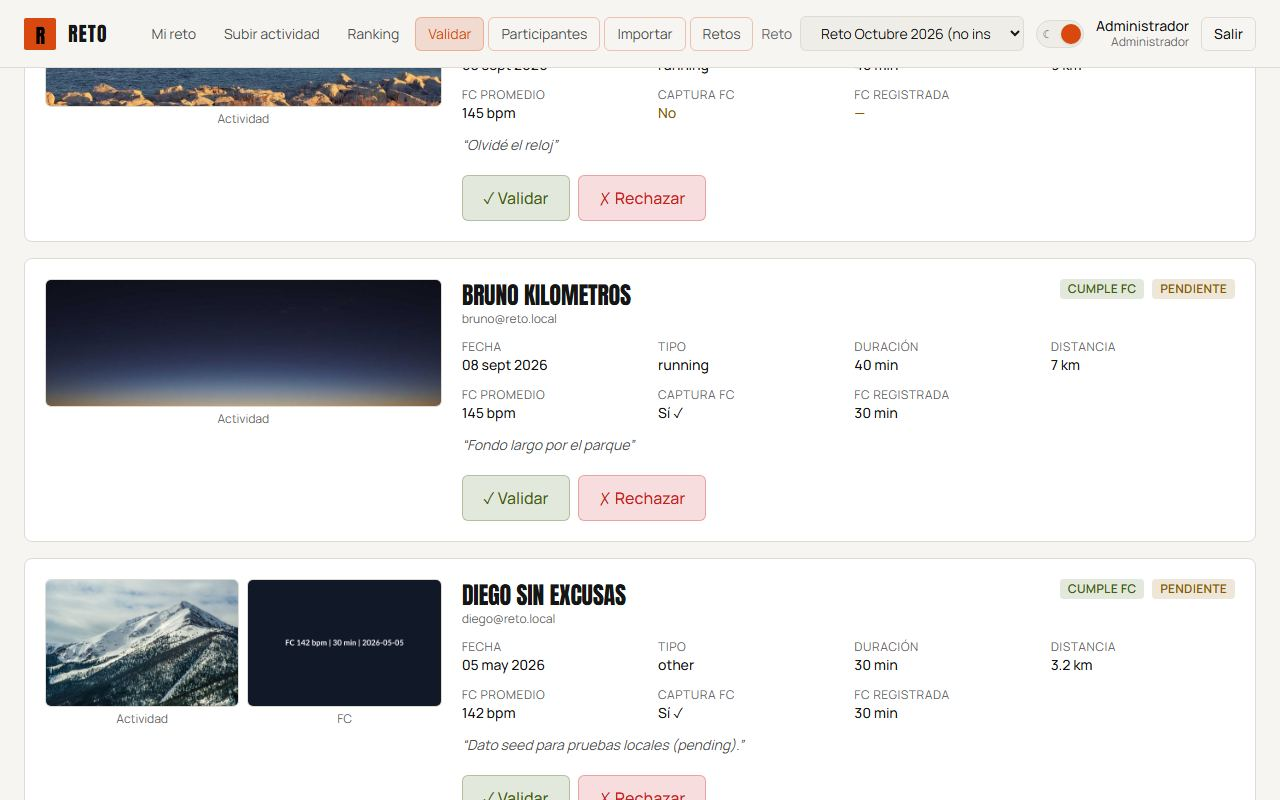
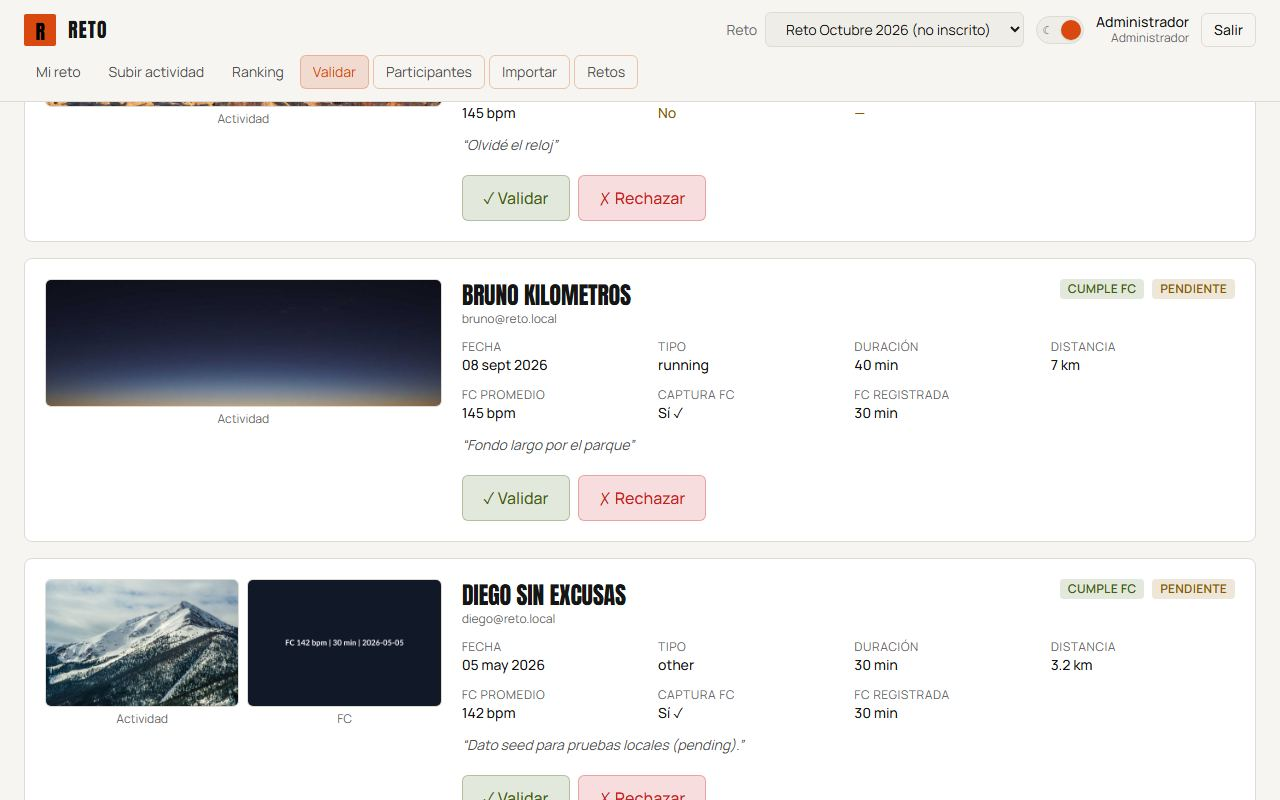
docs: refresh captures for the new header and record the run
The admin screens show the two-row header with the full challenge name,
the guide uses the new header capture sizes and lists the fix, and the
counts match the latest validated run.

Changed region(s): [[0.0, 0.0, 0.7812, 0.125], [0.8125, 0.0, 0.9688, 0.0625], [0.6875, 0.0938, 0.75, 0.125]]

diff --git a/docs/guia-plataforma.html b/docs/guia-plataforma.html
@@ -265,13 +265,14 @@
     <p class="lede">Todo lo que hace la plataforma, en el orden en que ocurre durante un mes de reto: poner el sistema en marcha, configurar el reto, inscribir y cobrar, registrar y validar actividades, cerrar con ranking y premio, cargar historial y operar. Marca cada paso cuando lo completes; tu avance queda guardado en este navegador.</p>
     <div class="facts">
       <span><b>Para</b> administradores, participantes y quien opera el servidor</span>
-      <span class="verified">Verificado el 2 oct 2026: batería 11 de 11 · 99 de 99 casos aprobados con 329 pruebas</span>
+      <span class="verified">Verificado el 2 oct 2026: batería 11 de 11 · 100 de 100 casos aprobados con 333 pruebas</span>
       <span><b>Capturas</b> de la web real en modo claro, generadas por Playwright con datos de demostración</span>
       <span><b>Moneda de ejemplo</b> BOB · <b>zona</b> America/La_Paz</span>
     </div>
     <details class="news">
       <summary>Qué cambió en esta actualización</summary>
       <ul>
+        <li>El encabezado entra completo también en el celular: el nombre del reto ya no se corta y las secciones van en una fila propia que se desplaza.</li>
         <li>Los retos cerrados se consultan en el Ranking: ganadores y premio final, con dirección para compartir (paso 6.5).</li>
         <li>Nuevo modo claro con interruptor en el encabezado; por defecto sigue el tema de tu dispositivo (paso 1.4).</li>
         <li>Capturas de la web real en modo claro, dentro de un marco de ventana para no confundirlas con la guía; pulsa una para ampliarla.</li>
@@ -643,7 +644,7 @@
         {
           id: '8.2', role: 'tecnico', title: 'Correr la batería completa',
           why: 'Antes de cada release, un solo comando valida toda la plataforma.',
-          cmd: 'node scripts/run-tests.mjs              # 11 pasos\nnode scripts/run-tests.mjs --quick      # sin base de datos\nnode scripts/validate-test-cases.mjs    # valida los 99 casos del catálogo',
+          cmd: 'node scripts/run-tests.mjs              # 11 pasos\nnode scripts/run-tests.mjs --quick      # sin base de datos\nnode scripts/validate-test-cases.mjs    # valida los 100 casos del catálogo',
           expect: 'Lint, unitarias, build, migraciones, e2e de API, tipos, unitarias y build de la web, sesiones paralelas y recorridos de UI en verde. El validador cruza cada caso de <code>docs/qa/</code> con sus pruebas y regenera el catálogo y el reporte. Solo necesita Postgres.',
           refs: ['testing.md', 'qa/validation-report.md']
         },
@@ -651,7 +652,7 @@
           id: '8.3', role: 'tecnico', title: 'Ver los recorridos de UI en el navegador',
           why: 'Playwright reproduce los recorridos de este manual sobre la web real.',
           cmd: 'cd e2e && npm install && npx playwright install chromium\nnpm test          # sin ventana\nnpm run test:ui   # paso a paso\nnpx playwright test -c playwright.guide.config.ts   # regenera las capturas de este manual',
-          expect: '34 recorridos en verde (más la preparación de sesiones). La suite de capturas deja las imágenes en <code>docs/guia-capturas/</code>.',
+          expect: '38 recorridos en verde (más la preparación de sesiones). La suite de capturas deja las imágenes en <code>docs/guia-capturas/</code>.',
           refs: ['e2e-playwright.md']
         },
         {
@@ -666,7 +667,7 @@
           id: '8.5', role: 'tecnico', title: 'Validar el catálogo de casos de prueba',
           why: 'Cada caso del catálogo está enlazado a las pruebas que lo demuestran; el validador dice cuáles pasan hoy.',
           cmd: 'cd backend && npx prisma migrate reset --force   # datos limpios del seed\ncd .. && node scripts/validate-test-cases.mjs\nnode scripts/validate-test-cases.mjs --only=ui        # una sola suite\nnode scripts/validate-test-cases.mjs --reuse          # regenera los documentos sin volver a correr',
-          expect: 'Los 99 casos aprobados y ninguna prueba sin caso. Se regeneran <code>docs/qa/test-cases.md</code>, <code>test-cases.csv</code> y <code>validation-report.md</code>; el comando falla si un caso falla o si una prueba cambió de nombre.',
+          expect: 'Los 100 casos aprobados y ninguna prueba sin caso. Se regeneran <code>docs/qa/test-cases.md</code>, <code>test-cases.csv</code> y <code>validation-report.md</code>; el comando falla si un caso falla o si una prueba cambió de nombre.',
           note: 'Uno de los casos (TC-SEC-04, el seed en producción) es una verificación manual registrada; los demás se validan con pruebas automatizadas.',
           refs: ['qa/validation-report.md', 'qa/catalog.mjs']
         },
@@ -733,7 +734,7 @@
   const SHOT_DIR = 'guia-capturas/';
   // La versión publicada embebe las imágenes; en el repositorio se leen de la carpeta.
   // Ancho y alto de cada captura: reservan su espacio y evitan saltos al cargar.
-  const SHOT_SIZE = { '06-reto-formulario.jpg': [1232, 834], '07-selector-reto.jpg': [1280, 68], '23-tema-interruptor.jpg': [1280, 68], '14-validar-override.jpg': [1232, 366], '15-rechazar.jpg': [1232, 338], '18-premiacion.jpg': [1232, 504], '19-importar-preview.jpg': [1232, 289], '20-importar-resultado.jpg': [1232, 246], '21-importar-sheets.jpg': [1232, 263] };
+  const SHOT_SIZE = { '06-reto-formulario.jpg': [1232, 834], '07-selector-reto.jpg': [1280, 102], '23-tema-interruptor.jpg': [1280, 102], '14-validar-override.jpg': [1232, 366], '15-rechazar.jpg': [1232, 338], '18-premiacion.jpg': [1232, 504], '19-importar-preview.jpg': [1232, 289], '20-importar-resultado.jpg': [1232, 246], '21-importar-sheets.jpg': [1232, 263] };
   const shotSize = (file) => SHOT_SIZE[file] || [1280, 800];
   const shotSrc = (file) => (window.SHOT_DATA && window.SHOT_DATA[file]) || SHOT_DIR + file;
   const SHOTS = {

diff --git a/docs/testing.md b/docs/testing.md
@@ -111,8 +111,8 @@ Las ramas `main` y `develop` están protegidas: sin CI en verde no se puede merg
 | Reglas de negocio del backend | Cubiertas por unitarias y e2e |
 | Contratos HTTP y RBAC | Cubiertos por e2e |
 | Recorrido funcional completo | Cubierto por `parallel-session-test.mjs` |
-| Interfaz web | Cubierta por Playwright (`e2e/`): 34 recorridos (incluidos el modo claro/oscuro y los retos cerrados) y 15 pruebas de la suite de capturas, sobre navegador real |
-| Trazabilidad | Los 99 casos de `docs/qa/` están enlazados a 329 pruebas; ninguna prueba queda sin caso |
+| Interfaz web | Cubierta por Playwright (`e2e/`): 38 recorridos (incluidos el modo claro/oscuro, los retos cerrados y el encabezado en escritorio y móvil) y 15 pruebas de la suite de capturas, sobre navegador real |
+| Trazabilidad | Los 100 casos de `docs/qa/` están enlazados a 333 pruebas; ninguna prueba queda sin caso |
 | Componentes del frontend aislados | **Sin pruebas unitarias**: la UI se verifica de punta a punta, no por componente |
 | Subida de archivos | Cubierta de punta a punta contra el simulador local; **la subida real a Cloudinary** requiere credenciales y se verifica manualmente |
 | Lectura real de Google Sheets | **Sin cobertura automatizada**: e2e usa un cliente falso; el camino real requiere una cuenta de servicio |
@@ -124,6 +124,13 @@ Testing Library, y el corredor ya tiene dónde enchufarlas.
 
 Cada release se valida corriendo la batería completa en local antes de desplegar. Se anota
 aquí la versión, la fecha, el entorno y el resultado por suite.
+
+### 2026-10-02 · rama `fix/admin-header-overflow` (encabezado en escritorio y móvil)
+
+Base reiniciada con `npx prisma migrate reset --force`. **Batería:** 11 de 11 pasos en verde.
+**Catálogo:** 100 de 100 casos aprobados con 333 pruebas y 0 fallidas (recorridos de UI 38 más
+la preparación). El caso nuevo TC-UI-10 protege el defecto DEF-06: su prueba falla con el
+encabezado anterior (nombre del reto cortado y controles fuera de pantalla en móvil).
 
 ### 2026-10-02 · rama `feature/closed-challenge-results` (retos cerrados en el Ranking)
 

diff --git a/docs/test-cases.md b/docs/test-cases.md
@@ -9,7 +9,7 @@ automatizada, los recorridos manuales paso a paso, y el catálogo completo de ca
   antes de un despliegue o al validar un cambio grande. Seis de ellos están automatizados
   con Playwright (`cd e2e && npm test`, ver [`e2e-playwright.md`](./e2e-playwright.md));
   la versión manual sigue sirviendo para revisar la app desplegada.
-- **Parte 3 — Catálogo de casos**: vive en [`qa/test-cases.md`](./qa/test-cases.md): 99 casos
+- **Parte 3 — Catálogo de casos**: vive en [`qa/test-cases.md`](./qa/test-cases.md): 100 casos
   con precondiciones, datos, pasos, resultado esperado y las pruebas que validan cada uno,
   con su estado en la última validación.
 
@@ -103,7 +103,7 @@ recorrido de sesiones paralelas y los recorridos de UI con Playwright. Solo nece
 de datos: si la API no está arriba, el corredor la levanta. Variantes y detalle de cada
 suite: [`testing.md`](./testing.md) y [`e2e-playwright.md`](./e2e-playwright.md).
 
-**Qué casos están automatizados:** 98 de los 99 casos del catálogo se validan con pruebas
+**Qué casos están automatizados:** 99 de los 100 casos del catálogo se validan con pruebas
 automatizadas; el otro es una verificación manual registrada (TC-SEC-04). Para correr las
 suites y ver el estado de cada caso:
 

diff --git a/README.md b/README.md
@@ -205,7 +205,7 @@ Pasos:
 - Gitflow y convención de commits: ver `docs/gitflow.md`.
 - Seguridad / OWASP: ver `docs/security-owasp.md`.
 - Casos de prueba (entorno y recorridos guiados): ver `docs/test-cases.md`.
-- Catálogo de casos validado (99 casos con sus pruebas) y último reporte: `docs/qa/test-cases.md`, `docs/qa/validation-report.md`; se regeneran con `node scripts/validate-test-cases.mjs`.
+- Catálogo de casos validado (100 casos con sus pruebas) y último reporte: `docs/qa/test-cases.md`, `docs/qa/validation-report.md`; se regeneran con `node scripts/validate-test-cases.mjs`.
 - Batería automatizada y cómo correrla (`node scripts/run-tests.mjs`): ver `docs/testing.md`.
 - Pruebas de UI con Playwright (configuración y ejecución): ver `docs/e2e-playwright.md`.
 - Guía interactiva de uso con todas las funciones en orden y capturas de pantalla (abrir en el navegador): `docs/guia-plataforma.html`.

diff --git a/docs/e2e-playwright.md b/docs/e2e-playwright.md
@@ -91,6 +91,7 @@ a `.qa-results/shots`, para no reescribir las capturas versionadas.
 | `tests/06-import.spec.ts` | 8 y 9 · Importación por archivo y Google Sheets | TC-IMP-01, 02, 03, 05, TC-ACT-16 |
 | `tests/07-theme.spec.ts` | Guía 1.4 · Modo claro y oscuro | TC-UI-06, TC-UI-07, TC-UI-08, TC-UI-09 |
 | `tests/08-closed-results.spec.ts` | Guía 6.5 · Retos cerrados en el Ranking | TC-CHAL-12 |
+| `tests/09-header-layout.spec.ts` | Guía 1.3 · Encabezado en escritorio y móvil | TC-UI-10 |
 | `guide/capture.spec.ts` | Guía de uso (capturas) | TC-UI-03, TC-UI-05, TC-PART-05, TC-ACT-09, TC-ACT-11, TC-RES-06, TC-SCORE-07 y evidencia visual de otros 13 |
 
 La relación exacta caso → prueba está en [`qa/test-cases.md`](./qa/test-cases.md).

diff --git a/CHANGELOG.md b/CHANGELOG.md
@@ -13,6 +13,13 @@ Versionado [SemVer](https://semver.org/lang/es/).
   del encabezado no cambia y, sin retos activos, la página ofrece los cerrados. Resuelve la
   observación OBS-01 del catálogo de casos.
 
+### Corregido
+
+- El encabezado no entraba: con las siete secciones del administrador el selector cortaba el
+  nombre del reto, y en el celular el selector, el interruptor de tema y "Salir" quedaban fuera
+  de la pantalla. Ahora la marca y los controles van arriba y las secciones en una fila propia
+  que se desplaza.
+
 ## [1.1.0] — 2026-10-02
 
 Modo claro, sesiones estables ante picos de tráfico y un catálogo de casos de prueba validado
